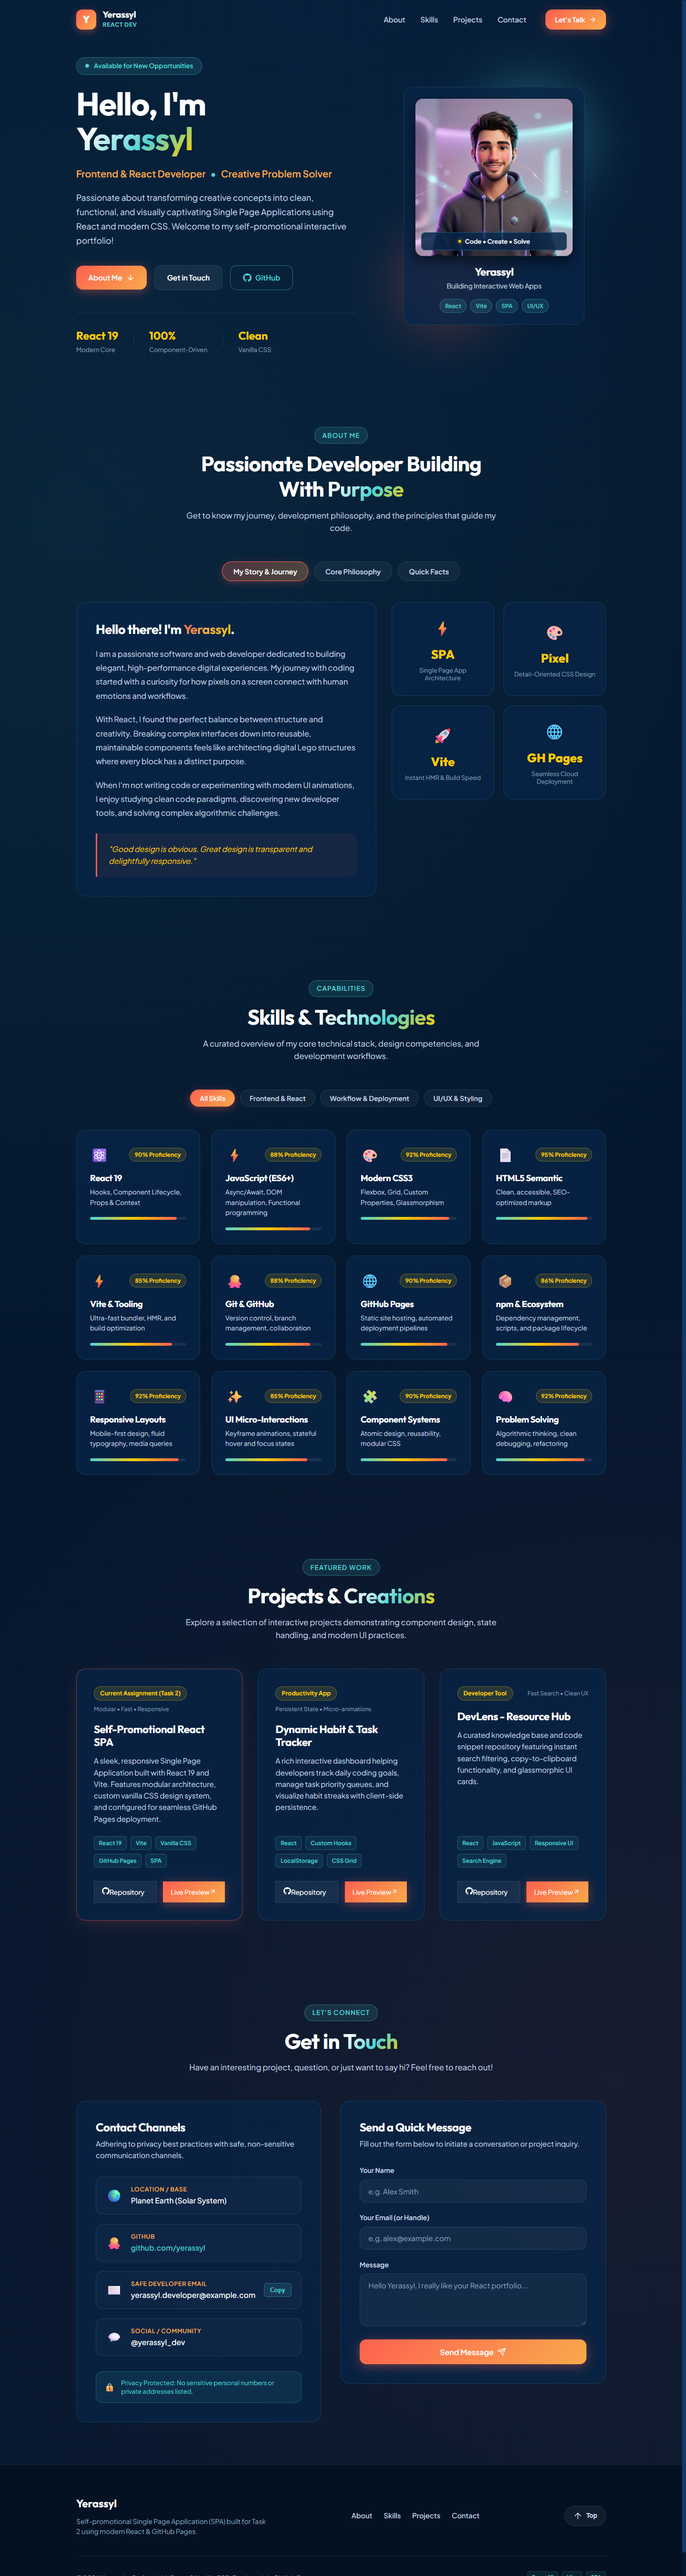
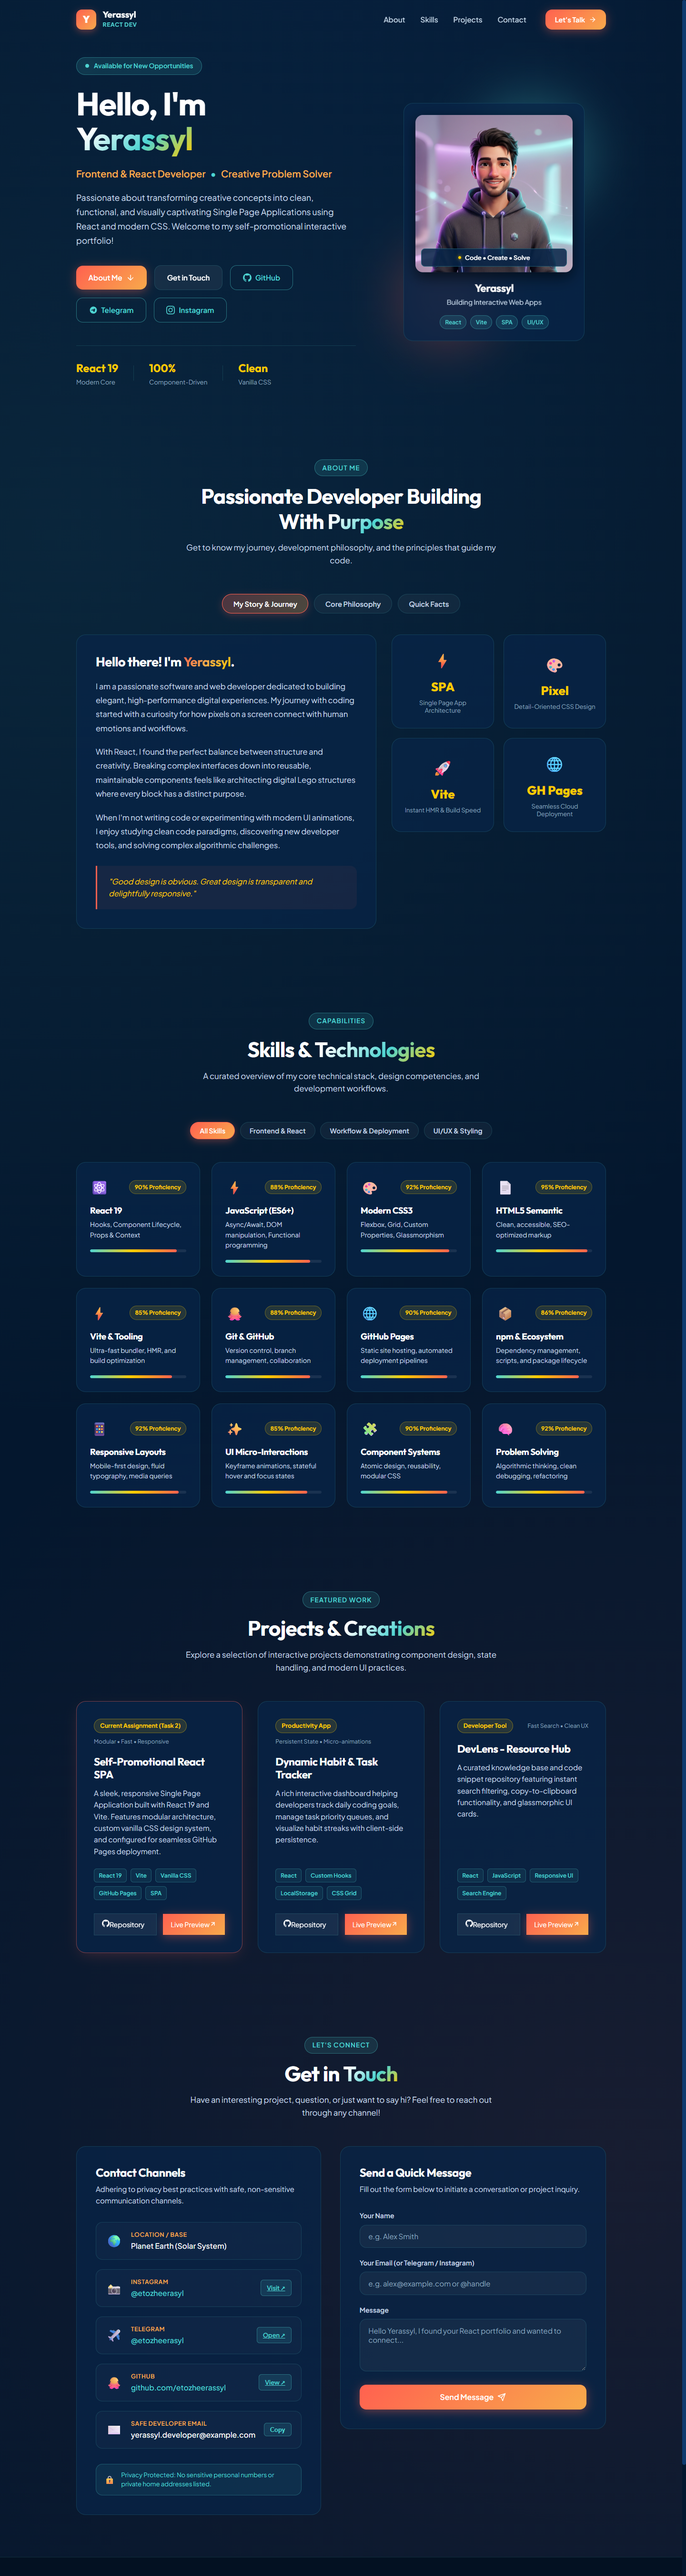
feat: add Instagram and Telegram contact channels

diff --git a/src/components/Contact.jsx b/src/components/Contact.jsx
@@ -35,7 +35,7 @@ export default function Contact() {
             Get in <span className="gradient-text">Touch</span>
           </h2>
           <p className="section-desc">
-            Have an interesting project, question, or just want to say hi? Feel free to reach out!
+            Have an interesting project, question, or just want to say hi? Feel free to reach out through any channel!
           </p>
         </div>
 
@@ -58,20 +58,76 @@ export default function Contact() {
                   </div>
                 </div>
 
+                {/* Instagram */}
+                <div className="contact-item">
+                  <div className="contact-item-icon">📸</div>
+                  <div className="contact-item-content">
+                    <span className="contact-item-label">Instagram</span>
+                    <a
+                      href="https://www.instagram.com/etozheerasyl/"
+                      target="_blank"
+                      rel="noopener noreferrer"
+                      className="contact-item-link"
+                    >
+                      @etozheerasyl
+                    </a>
+                  </div>
+                  <a
+                    href="https://www.instagram.com/etozheerasyl/"
+                    target="_blank"
+                    rel="noopener noreferrer"
+                    className="copy-btn"
+                  >
+                    Visit ↗
+                  </a>
+                </div>
+
+                {/* Telegram */}
+                <div className="contact-item">
+                  <div className="contact-item-icon">✈</div>
+                  <div className="contact-item-content">
+                    <span className="contact-item-label">Telegram</span>
+                    <a
+                      href="https://t.me/etozheerasyl"
+                      target="_blank"
+                      rel="noopener noreferrer"
+                      className="contact-item-link"
+                    >
+                      @etozheerasyl
+                    </a>
+                  </div>
+                  <a
+                    href="https://t.me/etozheerasyl"
+                    target="_blank"
+                    rel="noopener noreferrer"
+                    className="copy-btn"
+                  >
+                    Open ↗
+                  </a>
+                </div>
+
                 {/* GitHub */}
                 <div className="contact-item">
                   <div className="contact-item-icon">🐙</div>
                   <div className="contact-item-content">
                     <span className="contact-item-label">GitHub</span>
                     <a
-                      href="https://github.com"
+                      href="https://github.com/etozheerassyl"
                       target="_blank"
                       rel="noopener noreferrer"
                       className="contact-item-link"
                     >
-                      github.com/yerassyl
+                      github.com/etozheerassyl
                     </a>
                   </div>
+                  <a
+                    href="https://github.com/etozheerassyl"
+                    target="_blank"
+                    rel="noopener noreferrer"
+                    className="copy-btn"
+                  >
+                    View ↗
+                  </a>
                 </div>
 
                 {/* Safe Email */}
@@ -90,21 +146,12 @@ export default function Contact() {
                     {copied ? '✓ Copied' : 'Copy'}
                   </button>
                 </div>
-
-                {/* Social Handle */}
-                <div className="contact-item">
-                  <div className="contact-item-icon">💬</div>
-                  <div className="contact-item-content">
-                    <span className="contact-item-label">Social / Community</span>
-                    <span className="contact-item-value">@yerassyl_dev</span>
-                  </div>
-                </div>
               </div>
 
               {/* Status Note */}
               <div className="privacy-badge">
                 <span className="privacy-badge-icon">🔒</span>
-                <span>Privacy Protected: No sensitive personal numbers or private addresses listed.</span>
+                <span>Privacy Protected: No sensitive personal numbers or private home addresses listed.</span>
               </div>
             </div>
           </div>
@@ -142,13 +189,13 @@ export default function Contact() {
 
                   <div className="form-group">
                     <label htmlFor="email" className="form-label">
-                      Your Email (or Handle)
+                      Your Email (or Telegram / Instagram)
                     </label>
                     <input
                       id="email"
-                      type="email"
+                      type="text"
                       required
-                      placeholder="e.g. alex@example.com"
+                      placeholder="e.g. alex@example.com or @handle"
                       value={formData.email}
                       onChange={(e) => setFormData({ ...formData, email: e.target.value })}
                       className="form-input"
@@ -163,7 +210,7 @@ export default function Contact() {
                       id="message"
                       rows="4"
                       required
-                      placeholder="Hello Yerassyl, I really like your React portfolio..."
+                      placeholder="Hello Yerassyl, I found your React portfolio and wanted to connect..."
                       value={formData.message}
                       onChange={(e) => setFormData({ ...formData, message: e.target.value })}
                       className="form-input form-textarea"

diff --git a/src/components/Hero.jsx b/src/components/Hero.jsx
@@ -41,7 +41,7 @@ export default function Hero() {
             </a>
 
             <a
-              href="https://github.com"
+              href="https://github.com/etozheerassyl"
               target="_blank"
               rel="noopener noreferrer"
               className="btn btn-outline hero-social-btn"
@@ -51,6 +51,32 @@ export default function Hero() {
                 <path d="M12 0c-6.626 0-12 5.373-12 12 0 5.302 3.438 9.8 8.207 11.387.599.111.793-.261.793-.577v-2.234c-3.338.726-4.033-1.416-4.033-1.416-.546-1.387-1.333-1.756-1.333-1.756-1.089-.745.083-.729.083-.729 1.205.084 1.839 1.237 1.839 1.237 1.07 1.834 2.807 1.304 3.492.997.107-.775.418-1.305.762-1.604-2.665-.305-5.467-1.334-5.467-5.931 0-1.311.469-2.381 1.236-3.221-.124-.303-.535-1.524.117-3.176 0 0 1.008-.322 3.301 1.23.957-.266 1.983-.399 3.003-.404 1.02.005 2.047.138 3.006.404 2.291-1.552 3.297-1.23 3.297-1.23.653 1.653.242 2.874.118 3.176.77.84 1.235 1.911 1.235 3.221 0 4.609-2.807 5.624-5.479 5.921.43.372.823 1.102.823 2.222v3.293c0 .319.192.694.801.576 4.765-1.589 8.199-6.086 8.199-11.386 0-6.627-5.373-12-12-12z"/>
               </svg>
               <span>GitHub</span>
+            </a>
+
+            <a
+              href="https://t.me/etozheerasyl"
+              target="_blank"
+              rel="noopener noreferrer"
+              className="btn btn-outline hero-social-btn"
+              title="Telegram"
+            >
+              <svg width="18" height="18" viewBox="0 0 24 24" fill="currentColor">
+                <path d="M12 2C6.48 2 2 6.48 2 12s4.48 10 10 10 10-4.48 10-10S17.52 2 12 2zm4.64 6.8c-.15 1.58-.8 5.42-1.13 7.19-.14.75-.42 1-.68 1.03-.58.05-1.02-.38-1.58-.75-.88-.58-1.38-.94-2.23-1.5-.99-.65-.35-1.01.22-1.59.15-.15 2.71-2.48 2.76-2.69a.2.2 0 00-.05-.18c-.06-.05-.14-.03-.21-.02-.09.02-1.49.95-4.22 2.79-.4.27-.76.41-1.08.4-.36-.01-1.04-.2-1.55-.37-.63-.2-1.12-.31-1.08-.66.02-.18.27-.36.74-.55 2.92-1.27 4.86-2.11 5.83-2.51 2.78-1.16 3.35-1.36 3.73-1.36.08 0 .27.02.39.12.1.08.13.19.14.27-.01.06.01.24 0 .38z"/>
+              </svg>
+              <span>Telegram</span>
+            </a>
+
+            <a
+              href="https://www.instagram.com/etozheerasyl/"
+              target="_blank"
+              rel="noopener noreferrer"
+              className="btn btn-outline hero-social-btn"
+              title="Instagram"
+            >
+              <svg width="18" height="18" viewBox="0 0 24 24" fill="currentColor">
+                <path d="M12 2.163c3.204 0 3.584.012 4.85.07 3.252.148 4.771 1.691 4.919 4.919.058 1.265.069 1.645.069 4.849 0 3.205-.012 3.584-.069 4.849-.149 3.225-1.664 4.771-4.919 4.919-1.266.058-1.644.07-4.85.07-3.204 0-3.584-.012-4.849-.07-3.26-.149-4.771-1.699-4.919-4.92-.058-1.265-.07-1.644-.07-4.849 0-3.204.013-3.583.07-4.849.149-3.227 1.664-4.771 4.919-4.919 1.266-.057 1.645-.069 4.849-.069zm0-2.163c-3.259 0-3.667.014-4.947.072-4.358.2-6.78 2.618-6.98 6.98-.059 1.281-.073 1.689-.073 4.948 0 3.259.014 3.668.072 4.948.2 4.358 2.618 6.78 6.98 6.98 1.281.058 1.689.072 4.948.072 3.259 0 3.668-.014 4.948-.072 4.354-.2 6.782-2.618 6.979-6.98.059-1.28.073-1.689.073-4.948 0-3.259-.014-3.667-.072-4.947-.196-4.354-2.617-6.78-6.979-6.98-1.281-.059-1.69-.073-4.949-.073zm0 5.838c-3.403 0-6.162 2.759-6.162 6.162s2.759 6.163 6.162 6.163 6.162-2.759 6.162-6.163c0-3.403-2.759-6.162-6.162-6.162zm0 10.162c-2.209 0-4-1.79-4-4 0-2.209 1.791-4 4-4s4 1.791 4 4c0 2.21-1.791 4-4 4zm6.406-11.845c-.796 0-1.441.645-1.441 1.44s.645 1.44 1.441 1.44c.795 0 1.439-.645 1.439-1.44s-.644-1.44-1.439-1.44z"/>
+              </svg>
+              <span>Instagram</span>
             </a>
           </div>
 

diff --git a/src/components/Footer.jsx b/src/components/Footer.jsx
@@ -21,6 +21,9 @@ export default function Footer() {
             <a href="#skills" className="footer-link">Skills</a>
             <a href="#projects" className="footer-link">Projects</a>
             <a href="#contact" className="footer-link">Contact</a>
+            <a href="https://t.me/etozheerasyl" target="_blank" rel="noopener noreferrer" className="footer-link">Telegram</a>
+            <a href="https://www.instagram.com/etozheerasyl/" target="_blank" rel="noopener noreferrer" className="footer-link">Instagram</a>
+            <a href="https://github.com/etozheerassyl" target="_blank" rel="noopener noreferrer" className="footer-link">GitHub</a>
           </div>
 
           <button onClick={scrollToTop} className="back-to-top-btn" title="Back to Top">

diff --git a/src/components/Projects.jsx b/src/components/Projects.jsx
@@ -9,8 +9,8 @@ export default function Projects() {
       description:
         'A sleek, responsive Single Page Application built with React 19 and Vite. Features modular architecture, custom vanilla CSS design system, and configured for seamless GitHub Pages deployment.',
       tags: ['React 19', 'Vite', 'Vanilla CSS', 'GitHub Pages', 'SPA'],
-      github: 'https://github.com',
-      demo: '#',
+      github: 'https://github.com/etozheerassyl/react',
+      demo: 'https://etozheerassyl.github.io/react/',
       featured: true,
       stats: 'Modular • Fast • Responsive',
     },
